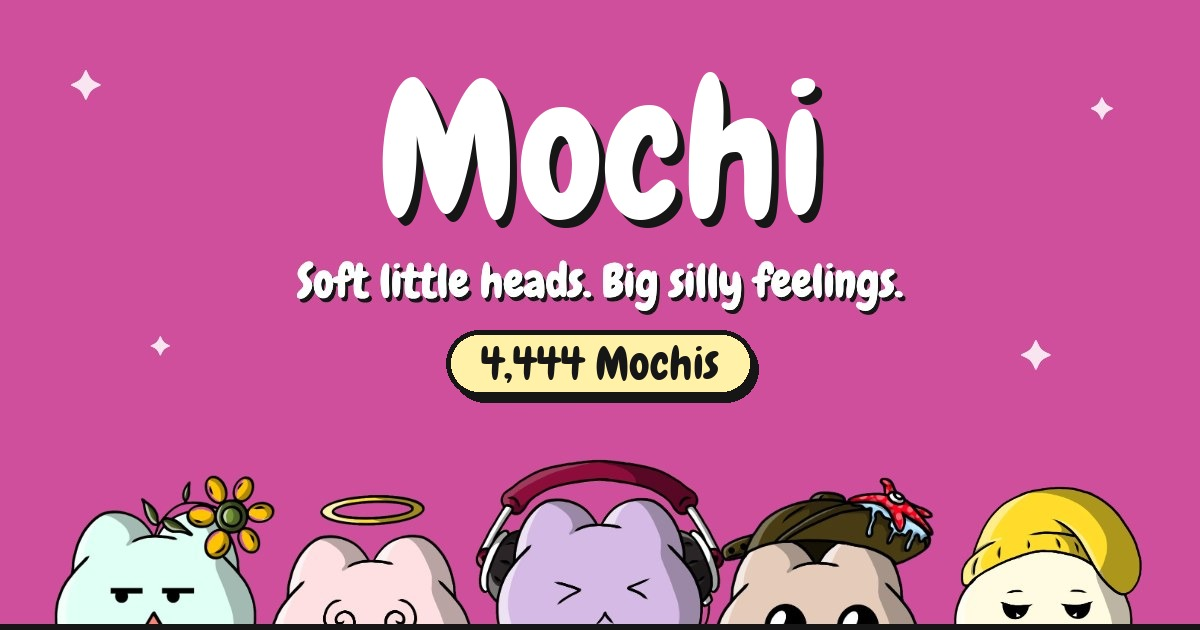
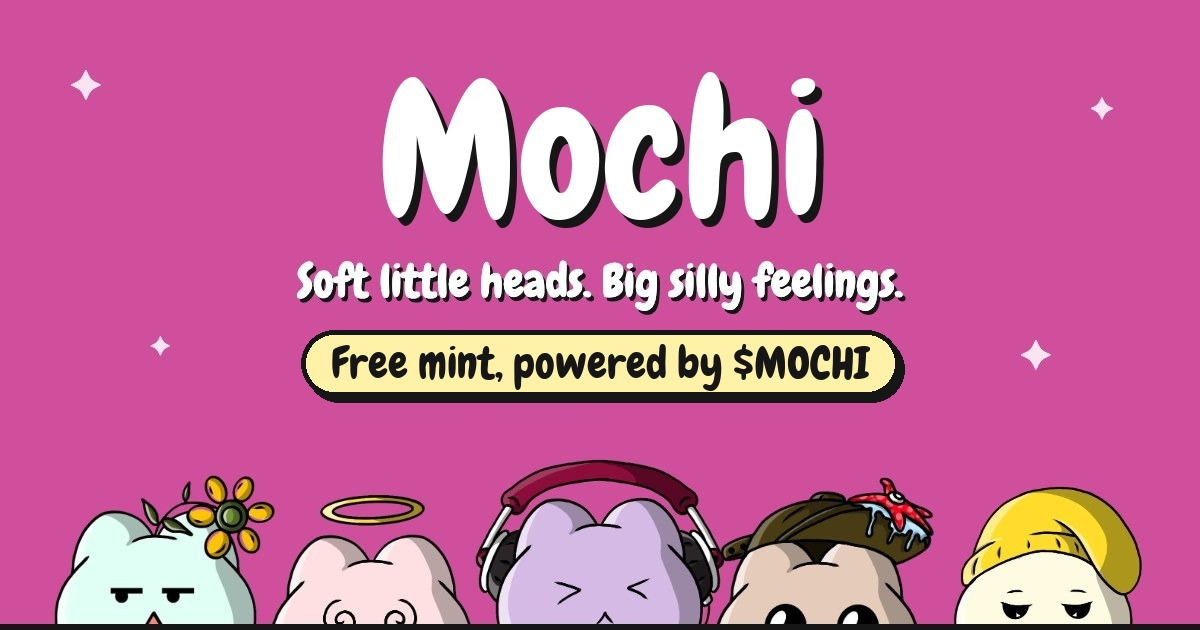
Add $MOCHI across the site and confirm wallet updates

Changed region(s): [[0.2467, 0.5127, 0.7708, 0.6635]]

diff --git a/src/components/Join.tsx b/src/components/Join.tsx
@@ -2,7 +2,7 @@
 
 import { useEffect, useRef, useState } from "react";
 import { useSession } from "./Session";
-import { FEATURED, X_HANDLE, X_URL } from "@/lib/mochi";
+import { FEATURED, POWERED, TOKEN, X_HANDLE, X_URL } from "@/lib/mochi";
 import { burstFrom } from "@/lib/burst";
 import { PINNED_ID, PINNED_POST, TASK_ORDER, WALLET, isComplete, type TaskId } from "@/lib/entry";
 import { downloadMyMochi, readInvite, useMyMochi } from "@/lib/myMochi";
@@ -168,6 +168,7 @@ export function Join() {
   // null until they type, so the saved wallet shows by default
   const [walletDraft, setWallet] = useState<string | null>(null);
   const [walletError, setWalletError] = useState<string | null>(null);
+  const [walletSaved, setWalletSaved] = useState(false);
   const [savingWallet, setSavingWallet] = useState(false);
   const [downloaded, setDownloaded] = useState(false);
   const [showInvite, setShowInvite] = useState(false);
@@ -194,11 +195,12 @@ export function Join() {
     setSavingWallet(false);
     setWalletError(r.error ?? null);
     if (r.error) return;
+    setWalletSaved(!first);
     refresh();
     if (first && on) setShowInvite(true);
   };
 
-  const postText = `Meet ${name}, my Mochi 🩷\n\n${X_HANDLE}\n\n${entry?.wallet ?? ""}`;
+  const postText = `Meet ${name}, the ${TOKEN} I made 🩷\n\n${X_HANDLE}\n\n${entry?.wallet ?? ""}`;
 
   return (
     <div className="mx-auto max-w-3xl px-4">
@@ -207,7 +209,7 @@ export function Join() {
         <h2 className="font-display text-6xl text-white" style={{ textShadow: "4px 4px 0 #161616" }}>
           Join the Mochis
         </h2>
-        <p className="mt-2 font-bold text-ink/80">Connect your X, do five quick tasks, and you&apos;re in the running.</p>
+        <p className="mt-2 font-bold text-ink/80">Connect your X, do five quick tasks, and you&apos;re in the running. {POWERED}.</p>
       </div>
 
       <div className="chunk mt-8 p-5 sm:p-8">
@@ -313,7 +315,10 @@ export function Join() {
                   <div className="flex flex-col gap-2 sm:flex-row">
                     <input
                       value={wallet}
-                      onChange={(e) => setWallet(e.target.value)}
+                      onChange={(e) => {
+                        setWallet(e.target.value);
+                        setWalletSaved(false);
+                      }}
                       placeholder="0x…"
                       spellCheck={false}
                       autoComplete="off"
@@ -331,6 +336,7 @@ export function Join() {
                     )}
                   </div>
                   {walletError && <p className="mt-2 text-sm font-bold text-[#c2185b]">{walletError}</p>}
+                  {walletSaved && <p className="pop-in mt-2 text-sm font-extrabold">Wallet updated.</p>}
                 </form>
                 {on && done("wallet") && (
                   <div className="mt-3">
@@ -385,7 +391,7 @@ export function Join() {
                 <p className="font-display text-4xl" style={{ textShadow: "3px 3px 0 #161616" }}>
                   You&apos;re all set, @{entry.handle}!
                 </p>
-                <p className="mt-1 font-bold">All five tasks done. Keep an eye on {X_HANDLE} for what&apos;s next.</p>
+                <p className="mt-1 font-bold">All five tasks done. Keep an eye on {X_HANDLE} for {TOKEN} news and what&apos;s next.</p>
                 <a href={X_URL} target="_blank" rel="noreferrer" className="btn mt-4 text-ink! text-base!">
                   <XLogo /> {X_HANDLE}
                 </a>

diff --git a/src/components/Referrals.tsx b/src/components/Referrals.tsx
@@ -2,7 +2,7 @@
 
 import Link from "next/link";
 import { useEffect, useRef, useState } from "react";
-import { X_HANDLE } from "@/lib/mochi";
+import { POWERED, TOKEN, X_HANDLE } from "@/lib/mochi";
 import { SITE_URL } from "@/lib/site";
 import { useSession } from "./Session";
 import { useWall } from "./WallContext";
@@ -11,7 +11,7 @@ import { useWall } from "./WallContext";
 export function InviteLink({ handle }: { handle: string }) {
   const [copied, setCopied] = useState(false);
   const link = `${SITE_URL}/?ref=${handle.toLowerCase()}`;
-  const text = encodeURIComponent(`Come make a Mochi with me 🩷 ${X_HANDLE}\n\n${link}`);
+  const text = encodeURIComponent(`Come make a Mochi with me 🩷 Free mint, powered by ${TOKEN} ${X_HANDLE}\n\n${link}`);
 
   const copy = async () => {
     await navigator.clipboard.writeText(link).catch(() => {});
@@ -56,7 +56,7 @@ export function InvitePopup({ handle, onClose }: { handle: string; onClose: () =
       <h2 id="invite-title" className="text-center font-display text-4xl text-pink" style={{ textShadow: "2px 2px 0 #161616" }}>
         Here&apos;s your referral link
       </h2>
-      <p className="mt-2 text-center font-bold">Invite friends to join the Top Recruiters and secure one of multiple GTD free mint spots.</p>
+      <p className="mt-2 text-center font-bold">Invite friends to join the Top Recruiters and secure one of multiple GTD free mint spots. {POWERED}.</p>
       <div className="mt-4">
         <InviteLink handle={handle} />
       </div>
@@ -82,7 +82,7 @@ export function Referrals() {
         <h1 className="font-display text-6xl text-white" style={{ textShadow: "4px 4px 0 #161616" }}>
           Top Recruiters
         </h1>
-        <p className="mt-2 font-bold text-white">Bring the most friends to the Mochis and secure one of multiple GTD free mint spots.</p>
+        <p className="mt-2 font-bold text-white">Bring the most friends to the Mochis and secure one of multiple GTD free mint spots. {POWERED}.</p>
       </div>
 
       <div className="chunk mt-8 p-5 sm:p-8">

diff --git a/src/components/Builder.tsx b/src/components/Builder.tsx
@@ -14,7 +14,7 @@ import {
 } from "./MochiArt";
 import { burst, burstFrom } from "@/lib/burst";
 import { X_HANDLE } from "@/lib/mochi";
-import { AIRDROP_VOTES } from "@/lib/mochi";
+import { AIRDROP_VOTES, TOKEN } from "@/lib/mochi";
 import { downloadMyMochi, setMyMochiName, useMyMochi } from "@/lib/myMochi";
 import { useSession } from "./Session";
 import { useWall } from "./WallContext";
@@ -129,7 +129,7 @@ export function Builder() {
   };
 
   const current = TABS.find((t) => t.key === tab)!;
-  const shareText = encodeURIComponent(`Meet ${name || "my Mochi"}, the Mochi I made 🩷 ${X_HANDLE}`);
+  const shareText = encodeURIComponent(`Meet ${name || "my Mochi"}, the ${TOKEN} I made 🩷 ${X_HANDLE}`);
 
   return (
     <div className="mx-auto grid max-w-5xl gap-8 px-4 md:grid-cols-[1fr_1fr]">
@@ -153,7 +153,7 @@ export function Builder() {
             <h2 className="font-display text-5xl text-pink" style={{ textShadow: "3px 3px 0 #161616" }}>
               Make a Mochi
             </h2>
-            <p className="mt-1 font-semibold text-ink/75">Mix and match, name it, take it home as a PFP.</p>
+            <p className="mt-1 font-semibold text-ink/75">Mix and match, name it, take it home as a PFP. Welcome to the {TOKEN} world.</p>
           </div>
           {/* Live mini preview on phones, where the big one scrolls out of view */}
           <div key={bump} className="pop-in h-20 w-20 shrink-0 overflow-hidden rounded-2xl border-4 border-ink md:hidden">

diff --git a/src/components/Footer.tsx b/src/components/Footer.tsx
@@ -1,5 +1,5 @@
 import Link from "next/link";
-import { BRAND_PINK, FEATURED, X_HANDLE, X_URL } from "@/lib/mochi";
+import { BRAND_PINK, FEATURED, POWERED, X_HANDLE, X_URL } from "@/lib/mochi";
 import { PeekMochi } from "./PeekMochi";
 
 export function Footer() {
@@ -10,7 +10,7 @@ export function Footer() {
           Mochi
         </p>
         <p className="mt-3 font-display text-2xl text-white" style={{ textShadow: "2px 2px 0 #161616" }}>
-          See you on the timeline.
+          {POWERED}. See you on the timeline.
         </p>
         <a href={X_URL} target="_blank" rel="noreferrer" className="btn mt-5">
           Follow {X_HANDLE}
@@ -19,7 +19,7 @@ export function Footer() {
           <Link href="/gallery" className="hover:underline">Gallery</Link>
           <Link href="/leaderboard" className="hover:underline">Leaderboard</Link>
         </nav>
-        <p className="mt-4 text-xs font-bold text-white/80">© 2026 Mochi</p>
+        <p className="mt-4 text-xs font-bold text-white/80">© 2026 Mochi · $MOCHI</p>
       </div>
       <div className="mt-6 flex items-end justify-center gap-2 px-4">
         {[FEATURED[4], FEATURED[1], FEATURED[3]].map((b, i) => (

diff --git a/src/app/layout.tsx b/src/app/layout.tsx
@@ -7,14 +7,14 @@ const chewy = Chewy({ variable: "--font-chewy", weight: "400", subsets: ["latin"
 const nunito = Nunito({ variable: "--font-nunito", subsets: ["latin"] });
 
 const TITLE = "Mochi";
-const DESCRIPTION = "4,444 soft, silly little Mochis. Build your own Mochi, connect X and join the Mochis.";
+const DESCRIPTION = "4,444 little companions coming to OpenSea on Robinhood Chain. Free mint, powered by $MOCHI. Build your own Mochi, connect X and join the Mochis.";
 
 export const metadata: Metadata = {
   metadataBase: new URL(SITE_URL),
   title: { default: TITLE, template: "%s · Mochi" },
   description: DESCRIPTION,
   applicationName: TITLE,
-  keywords: ["Mochi", "Mochis", "NFT", "PFP", "4444", "cute", "collection", "allowlist"],
+  keywords: ["Mochi", "Mochis", "$MOCHI", "free mint", "Robinhood Chain", "OpenSea", "NFT", "PFP", "4444", "cute", "collection", "allowlist"],
   alternates: { canonical: "/" },
   openGraph: {
     type: "website",

diff --git a/src/components/Stickers.tsx b/src/components/Stickers.tsx
@@ -1,7 +1,7 @@
 "use client";
 
 import { useState } from "react";
-import { FEATURED, SUPPLY_LABEL } from "@/lib/mochi";
+import { FEATURED, POWERED, SUPPLY_LABEL } from "@/lib/mochi";
 import { burstFrom } from "@/lib/burst";
 
 const TILTS = [-6, 4, -3, 7, -5];
@@ -15,7 +15,7 @@ export function Stickers() {
         <h2 className="font-display text-6xl text-white" style={{ textShadow: "4px 4px 0 #161616" }}>
           The sticker sheet
         </h2>
-        <p className="mt-2 font-bold text-ink/80">{FEATURED.length} of {SUPPLY_LABEL}. Tap a sticker to flip it and peek at its traits.</p>
+        <p className="mt-2 font-bold text-ink/80">{FEATURED.length} of {SUPPLY_LABEL}. Tap a sticker to flip it and peek at its traits. {POWERED}.</p>
       </div>
 
       <div className="chunk dots mt-8 grid grid-cols-2 gap-x-4 gap-y-8 px-4 py-10 sm:grid-cols-3 sm:px-10 lg:grid-cols-5">

diff --git a/src/components/Gallery.tsx b/src/components/Gallery.tsx
@@ -3,7 +3,7 @@
 import Link from "next/link";
 import { useEffect, useState } from "react";
 import { burstFrom } from "@/lib/burst";
-import { AIRDROP_VOTES } from "@/lib/mochi";
+import { AIRDROP_VOTES, POWERED } from "@/lib/mochi";
 import { MochiArt, type MochiLook } from "./MochiArt";
 import { useSession } from "./Session";
 import { useWall } from "./WallContext";
@@ -128,7 +128,7 @@ export function Gallery() {
           The Gallery
         </h1>
         <p className="mx-auto mt-2 max-w-xl font-bold text-ink/80">
-          Hang your Mochi on the wall and vote for your favourites. Reach {AIRDROP_VOTES} votes and you secure a free airdrop.
+          Hang your Mochi on the wall and vote for your favourites. Reach {AIRDROP_VOTES} votes and you secure a free airdrop. {POWERED}.
         </p>
       </div>
 

diff --git a/src/components/Hero.tsx b/src/components/Hero.tsx
@@ -1,4 +1,4 @@
-import { FEATURED, BRAND_PINK, SUPPLY_LABEL } from "@/lib/mochi";
+import { FEATURED, BRAND_PINK, POWERED, SUPPLY_LABEL } from "@/lib/mochi";
 import { PeekMochi } from "./PeekMochi";
 import type { BurstKind } from "@/lib/burst";
 
@@ -50,6 +50,9 @@ export function Hero() {
         </p>
         <p className="mt-4 -rotate-3 rounded-full border-4 border-ink bg-[#fff1a8] px-5 py-1 font-display text-2xl shadow-[3px_4px_0_#161616]">
           Only {SUPPLY_LABEL} Mochis
+        </p>
+        <p className="mt-3 font-display text-xl text-white sm:text-2xl" style={{ textShadow: "2px 2px 0 #161616" }}>
+          {POWERED}
         </p>
         <div className="mt-7 flex flex-wrap justify-center gap-3">
           <a href="#join" className="btn btn-pink">

diff --git a/src/components/Facts.tsx b/src/components/Facts.tsx
@@ -1,0 +1,17 @@
+import { FACTS } from "@/lib/mochi";
+
+// The collection at a glance, right under the hero
+export function Facts() {
+  return (
+    <section data-bg="#fff1a8" aria-label="The collection" className="border-b-4 border-ink bg-[#fff1a8] px-4 py-6">
+      <dl className="mx-auto grid max-w-5xl grid-cols-2 gap-3 sm:grid-cols-3 lg:grid-cols-6">
+        {FACTS.map((f) => (
+          <div key={f.label} className="rounded-2xl border-4 border-ink bg-white px-3 py-2 text-center shadow-[3px_3px_0_#161616]">
+            <dt className="text-xs font-extrabold text-ink/60">{f.label}</dt>
+            <dd className="font-display text-2xl">{f.value}</dd>
+          </div>
+        ))}
+      </dl>
+    </section>
+  );
+}

diff --git a/src/lib/mochi.ts b/src/lib/mochi.ts
@@ -80,6 +80,19 @@ export const FEATURED: FeaturedMochi[] = [
 export const SUPPLY = 4444;
 export const SUPPLY_LABEL = SUPPLY.toLocaleString("en-US");
 
+export const TOKEN = "$MOCHI";
+export const POWERED = `Free mint, powered by ${TOKEN}`;
+
+// The collection at a glance, shown on the home page
+export const FACTS = [
+  { label: "Supply", value: SUPPLY_LABEL },
+  { label: "Mint price", value: "FREE" },
+  { label: "Chain", value: "Robinhood" },
+  { label: "Launchpad", value: "OpenSea" },
+  { label: "Ecosystem token", value: TOKEN },
+  { label: "Mint date", value: "TBA" },
+];
+
 // Votes a Mochi in the gallery needs to secure a free airdrop
 export const AIRDROP_VOTES = 100;
 

diff --git a/src/app/gallery/page.tsx b/src/app/gallery/page.tsx
@@ -3,7 +3,7 @@ import { Gallery } from "@/components/Gallery";
 import { Shell } from "@/components/Shell";
 import { AIRDROP_VOTES } from "@/lib/mochi";
 
-const description = `Vote for your favourite Mochis. Reach ${AIRDROP_VOTES} votes on yours and you secure a free airdrop.`;
+const description = `Vote for your favourite Mochis. Reach ${AIRDROP_VOTES} votes on yours and you secure a free airdrop. Free mint, powered by $MOCHI.`;
 
 export const metadata: Metadata = {
   title: "Gallery",

diff --git a/src/app/leaderboard/page.tsx b/src/app/leaderboard/page.tsx
@@ -3,7 +3,7 @@ import { Referrals } from "@/components/Referrals";
 import { Shell } from "@/components/Shell";
 import { BRAND_PINK } from "@/lib/mochi";
 
-const description = "Bring the most friends to the Mochis and secure one of multiple GTD free mint spots.";
+const description = "Bring the most friends to the Mochis and secure one of multiple GTD free mint spots. Free mint, powered by $MOCHI.";
 
 export const metadata: Metadata = {
   title: "Leaderboard",
